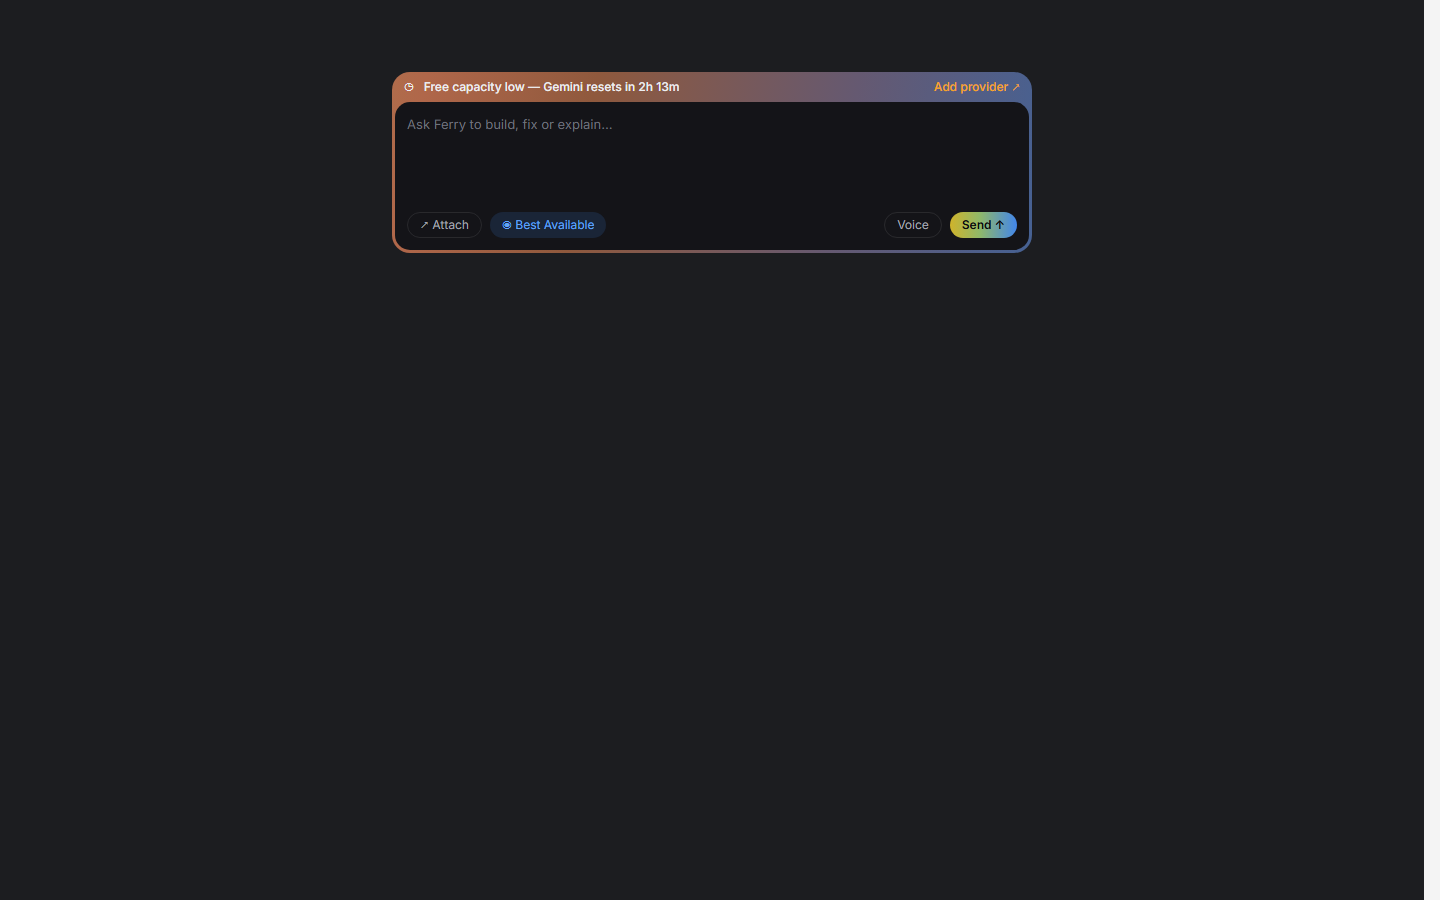
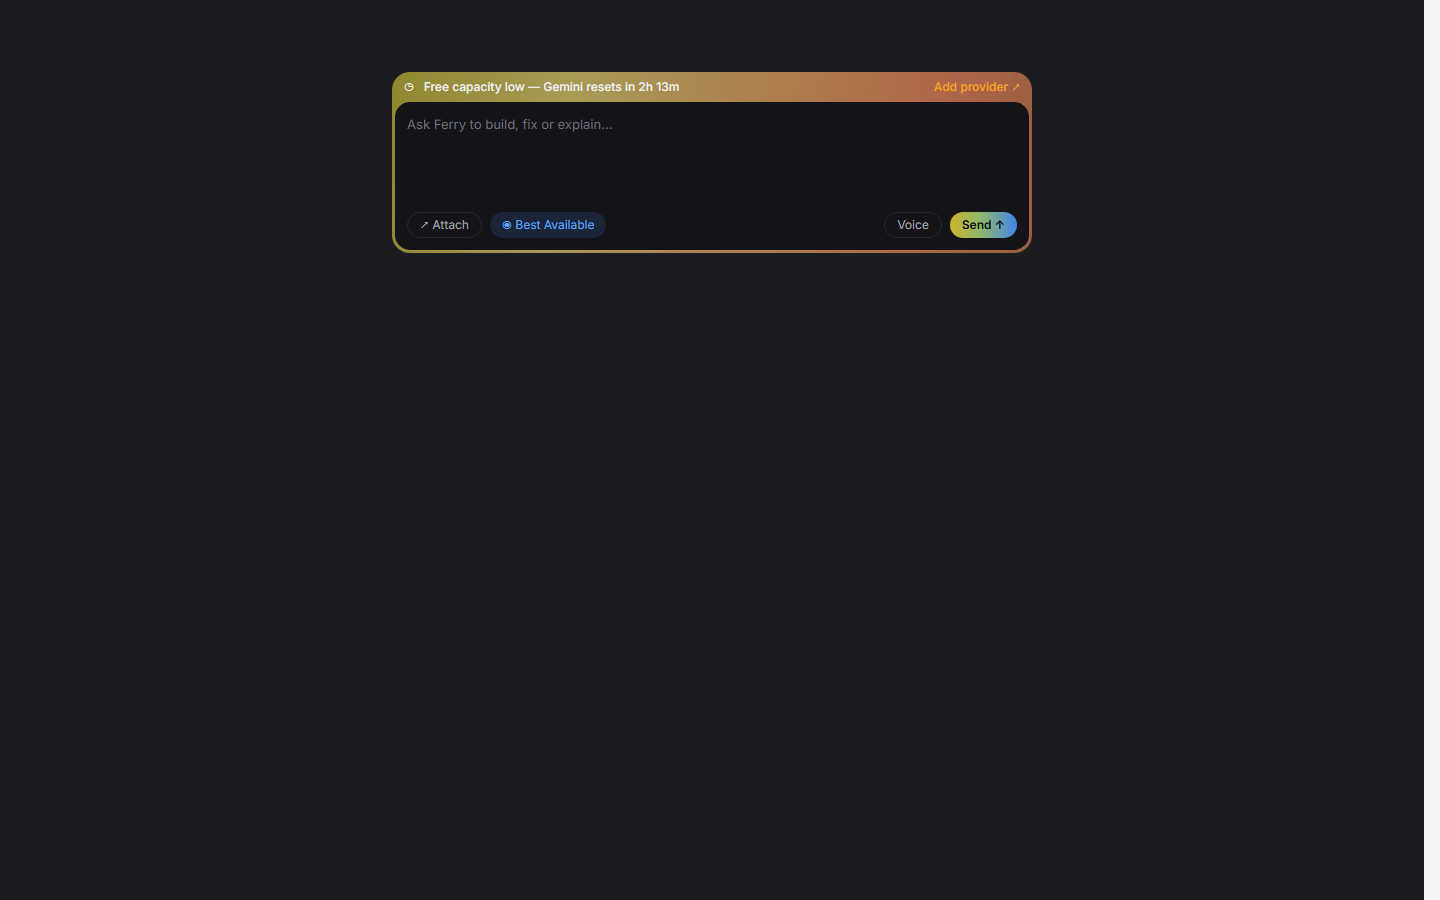
fix(desktop,ui): visual review — Tailwind scans UI kit, full-width session canvas, left model picker, seamless active item, composer border, inline code, approval wrap, home tab, KbdChip font [A3.4-d1]

Changed region(s): [[0.25, 0.0622, 0.7188, 0.1244], [0.6875, 0.2489, 0.7188, 0.28]]

diff --git a/packages/ui/src/components/chat/index.tsx b/packages/ui/src/components/chat/index.tsx
@@ -1,4 +1,4 @@
-import { useState, type ReactNode } from 'react';
+import { Children, isValidElement, useState, type ReactNode } from 'react';
 import ReactMarkdown from 'react-markdown';
 import remarkGfm from 'remark-gfm';
 import {
@@ -82,15 +82,27 @@ export function MarkdownPart({ content }: { content: string }) {
       <ReactMarkdown
         remarkPlugins={[remarkGfm]}
         components={{
-          pre: ({ children }) => <pre>{children}</pre>,
+          pre: ({ children }) => {
+            const child = Children.toArray(children)[0];
+            if (!isValidElement<{ children?: ReactNode; className?: string }>(child))
+              return <pre>{children}</pre>;
+            const code = child.props.children;
+            return (
+              <pre>
+                <CodeBlock
+                  {...(child.props.className ? { className: child.props.className } : {})}
+                  code={(typeof code === 'string' || typeof code === 'number'
+                    ? String(code)
+                    : ''
+                  ).replace(/\n$/, '')}
+                />
+              </pre>
+            );
+          },
           code: ({ children, className }) => (
-            <CodeBlock
-              {...(className ? { className } : {})}
-              code={(typeof children === 'string' || typeof children === 'number'
-                ? String(children)
-                : ''
-              ).replace(/\n$/, '')}
-            />
+            <code className={cn(className, 'rounded-md bg-raised px-1.5 py-0.5 font-mono')}>
+              {children}
+            </code>
           ),
         }}
       >
@@ -289,7 +301,7 @@ export function ToolCallBlock({
           {output && (
             <>
               <FilteredOutputBadge {...(onShowFull ? { onShowFull } : {})} output={output} />
-              <pre className="max-h-[280px] overflow-auto rounded-lg bg-input p-2.5 font-mono text-[11px] leading-4 text-text-2">
+              <pre className="max-h-[280px] overflow-auto whitespace-pre-wrap break-all rounded-lg bg-input p-2.5 font-mono text-[11px] leading-4 text-text-2">
                 {output.text}
               </pre>
             </>
@@ -339,7 +351,9 @@ export function ApprovalCard({
         </span>
       </div>
       <p className="text-label text-text-2">{kind}</p>
-      <pre className="rounded-lg bg-input p-2 font-mono text-[11px] text-text-3">{detail}</pre>
+      <pre className="whitespace-pre-wrap break-all rounded-lg bg-input p-2 font-mono text-[11px] text-text-3">
+        {detail}
+      </pre>
       {resolved ? (
         <p className="text-label text-text-3">{state.replace('_', ' ')} · resolved</p>
       ) : (

diff --git a/apps/desktop/src/renderer/app/AppFrame.tsx b/apps/desktop/src/renderer/app/AppFrame.tsx
@@ -105,12 +105,20 @@ export function AppFrame({ children }: { children: React.ReactNode }) {
     };
   }, [toastItems, dismissToast]);
 
-  const tabItems = tabs.map((tab) => ({
-    id: tab.id,
-    label: labels.get(tab.id) ?? tab.title,
-    icon: FileText,
-  }));
-  const currentId = pathname.startsWith('/s/') ? pathname.slice('/s/'.length) : (activeId ?? '');
+  const tabItems =
+    tabs.length === 0 && pathname === '/'
+      ? [{ id: 'home', label: 'New Chat', icon: FileText }]
+      : tabs.map((tab) => ({
+          id: tab.id,
+          label: labels.get(tab.id) ?? tab.title,
+          icon: FileText,
+        }));
+  const homeTab = tabs.length === 0 && pathname === '/';
+  const currentId = pathname.startsWith('/s/')
+    ? pathname.slice('/s/'.length)
+    : homeTab
+      ? 'home'
+      : (activeId ?? '');
   return (
     <div
       className={`app-shell ${leftCollapsed ? 'left-is-collapsed' : ''} ${rightCollapsed ? 'right-is-collapsed' : ''}`}
@@ -123,12 +131,20 @@ export function AppFrame({ children }: { children: React.ReactNode }) {
             tabs={tabItems}
             activeId={currentId}
             onSelect={(id) => {
+              if (id === 'home') {
+                void navigate({ to: '/' });
+                return;
+              }
               setActive(id as (typeof tabs)[number]['id']);
               void navigate({ to: '/s/$sessionId', params: { sessionId: id } });
             }}
-            onClose={(id) => {
-              closeTab(id as (typeof tabs)[number]['id']);
-            }}
+            {...(homeTab
+              ? {}
+              : {
+                  onClose: (id: string) => {
+                    closeTab(id as (typeof tabs)[number]['id']);
+                  },
+                })}
             onAdd={() => void createChat()}
             rightCluster={
               <TopRightCluster

diff --git a/packages/ui/src/components/canvas/index.tsx b/packages/ui/src/components/canvas/index.tsx
@@ -318,27 +318,25 @@ export function Composer({
       else if (value.trim()) onSend();
     }
   }
-  const topBand = banner
-    ? {
-        height: 30,
-        content: (
-          <div className="flex h-full items-center justify-between gap-3 px-3 text-label font-medium text-white/90">
-            <span className="flex min-w-0 items-center gap-2 truncate">
-              <Timer size={14} />
-              {banner.text}
-            </span>
-            <button
-              className="flex shrink-0 items-center gap-1 font-semibold text-warn hover:brightness-125"
-              onClick={banner.onAction}
-              type="button"
-            >
-              {banner.actionLabel}
-              <ArrowUpRight size={14} />
-            </button>
-          </div>
-        ),
-      }
-    : null;
+  const topBand = {
+    height: banner ? 30 : 3,
+    content: banner ? (
+      <div className="flex h-full items-center justify-between gap-3 px-3 text-label font-medium text-white/90">
+        <span className="flex min-w-0 items-center gap-2 truncate">
+          <Timer size={14} />
+          {banner.text}
+        </span>
+        <button
+          className="flex shrink-0 items-center gap-1 font-semibold text-warn hover:brightness-125"
+          onClick={banner.onAction}
+          type="button"
+        >
+          {banner.actionLabel}
+          <ArrowUpRight size={14} />
+        </button>
+      </div>
+    ) : null,
+  };
   return (
     <div className="mt-auto pt-5">
       <GradientBorder
@@ -347,7 +345,7 @@ export function Composer({
         width={3}
         radius="panel"
         shimmer
-        {...(topBand ? { topBand } : {})}
+        topBand={topBand}
       >
         <div className="flex min-h-[148px] flex-col rounded-[14px] bg-input p-3">
           <textarea

diff --git a/apps/desktop/src/renderer/styles.css b/apps/desktop/src/renderer/styles.css
@@ -52,12 +52,17 @@ button {
   flex-direction: column;
   min-width: 0;
   min-height: 0;
+  width: 100%;
 }
 .canvas-slot {
   display: flex;
   flex: 1;
   min-height: 0;
   padding-top: 0;
+  width: 100%;
+}
+.canvas-slot > section {
+  width: 100%;
 }
 .home-canvas {
   padding: 20px 24px;
@@ -93,11 +98,14 @@ button {
   min-height: 0;
   flex: 1;
   overflow-y: auto;
-  padding: 24px min(7vw, 90px) 16px;
+  padding: 24px 0 16px;
   scroll-behavior: smooth;
 }
 .transcript-message {
+  box-sizing: border-box;
+  width: min(760px, 100%);
   padding-bottom: 28px;
+  margin-inline: auto;
 }
 .transcript-message > article {
   max-width: 760px;

diff --git a/apps/desktop/src/renderer/app/Canvas.tsx b/apps/desktop/src/renderer/app/Canvas.tsx
@@ -447,9 +447,9 @@ export function SessionCanvas() {
                 style={{
                   position: 'absolute',
                   top: 0,
-                  left: 0,
-                  width: '100%',
-                  transform: `translateY(${String(item.start)}px)`,
+                  left: '50%',
+                  width: 'min(760px, 100%)',
+                  transform: `translate(-50%, ${String(item.start)}px)`,
                 }}
               >
                 {message.role === 'user' ? (

diff --git a/packages/ui/src/components/nav/index.tsx b/packages/ui/src/components/nav/index.tsx
@@ -222,7 +222,6 @@ export function SidebarItem({
   icon: Icon,
   label,
   active = false,
-  shimmer = false,
   onClick,
   showMenu = true,
 }: {
@@ -245,8 +244,6 @@ export function SidebarItem({
         active
           ? {
               backgroundImage: 'var(--grad-signature)',
-              backgroundSize: shimmer ? '200% 100%' : undefined,
-              animation: shimmer ? 'ferry-shimmer 6s linear infinite' : undefined,
             }
           : undefined
       }

diff --git a/packages/ui/src/components/primitives/index.tsx b/packages/ui/src/components/primitives/index.tsx
@@ -121,7 +121,7 @@ export function KbdChip({
   return (
     <kbd
       className={cn(
-        'rounded-md bg-raised px-1.5 py-0.5 text-meta font-medium text-text-2',
+        'rounded-md bg-raised px-1.5 py-0.5 font-sans text-[11px] leading-4 font-medium text-text-2',
         className,
       )}
     >

diff --git a/packages/ui/src/styles/index.css b/packages/ui/src/styles/index.css
@@ -2,6 +2,7 @@
 @import './tokens.css';
 @import './effects.css';
 @source '../';
+@source "../**/*.{ts,tsx}";
 
 @theme inline {
   --color-app: var(--bg-app);
